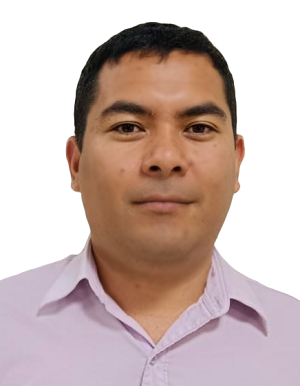
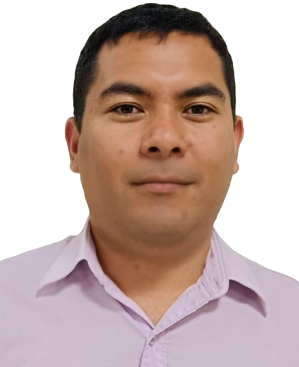
Modifcacion de fotografia de samuel

diff --git a/src/pages/nucleo_academico.module.css b/src/pages/nucleo_academico.module.css
@@ -70,6 +70,13 @@
     .icon{
         justify-content: center;
     }  
+
+    .docente img{
+        width: 100px;
+        height: 100px;
+        object-fit: contain;
+        border-radius: 50%;
+    }
 }
 
 @keyframes visibility{

diff --git a/src/pages/fecha_admision.module.css b/src/pages/fecha_admision.module.css
@@ -4,7 +4,6 @@
     justify-content: center;
     align-items: center;
     margin: auto;
-
 }
 
 .fechaAdmision{
